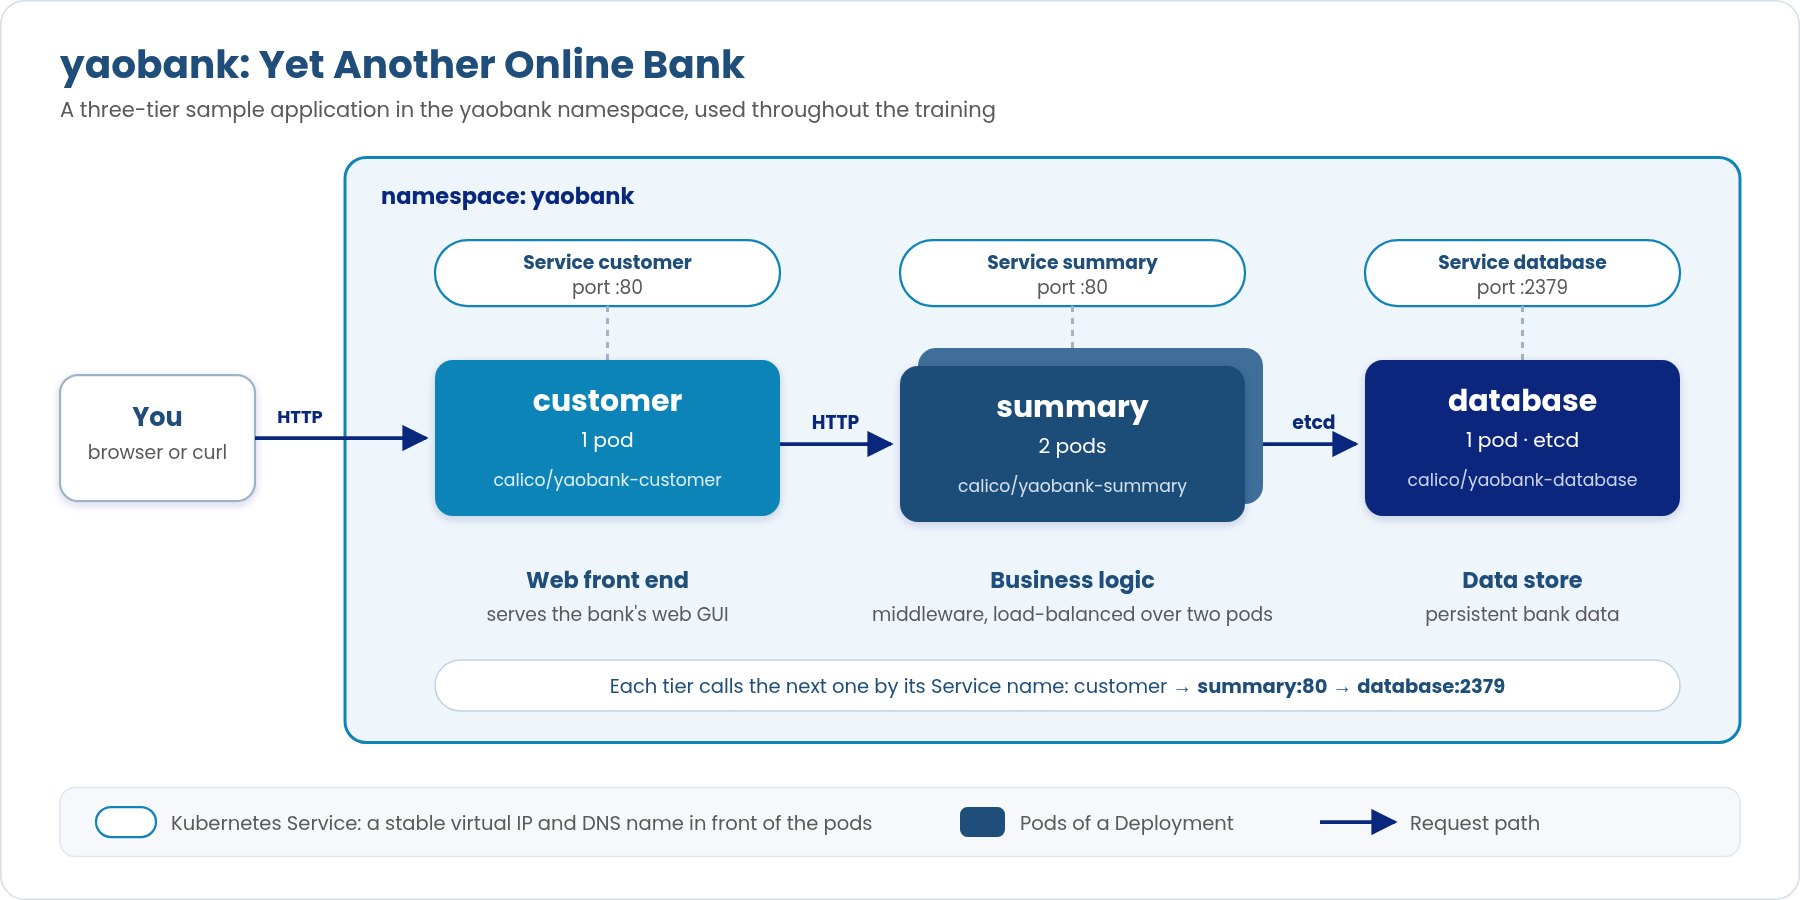
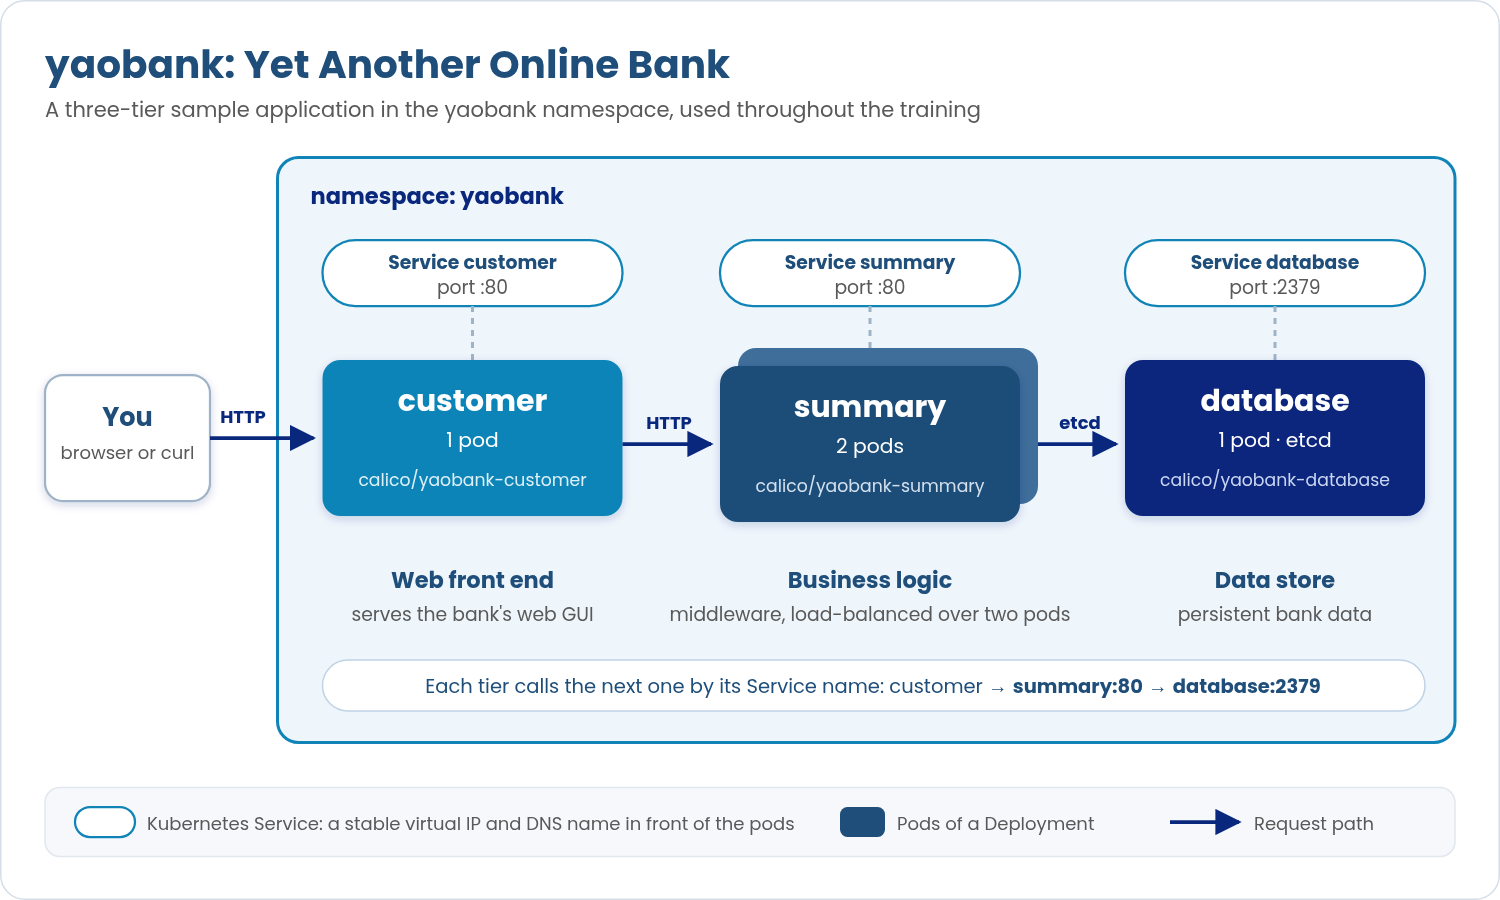
Update networking training lab manual

diff --git a/1.Install-Calico-Enterprise/README.md b/1.Install-Calico-Enterprise/README.md
@@ -482,7 +482,7 @@ yaobank is a sample application, which consists of 3 microservices explained bel
 
 The following diagram shows the logical diagram of the application.
 
-<a href="img/yaobank.png"><img src="img/yaobank.png" alt="yaobank three-tier application" width="1200"></a>
+<a href="img/yaobank.png"><img src="img/yaobank.png" alt="yaobank three-tier application" width="1000"></a>
 
 #### Deploy the yaobank application
 
